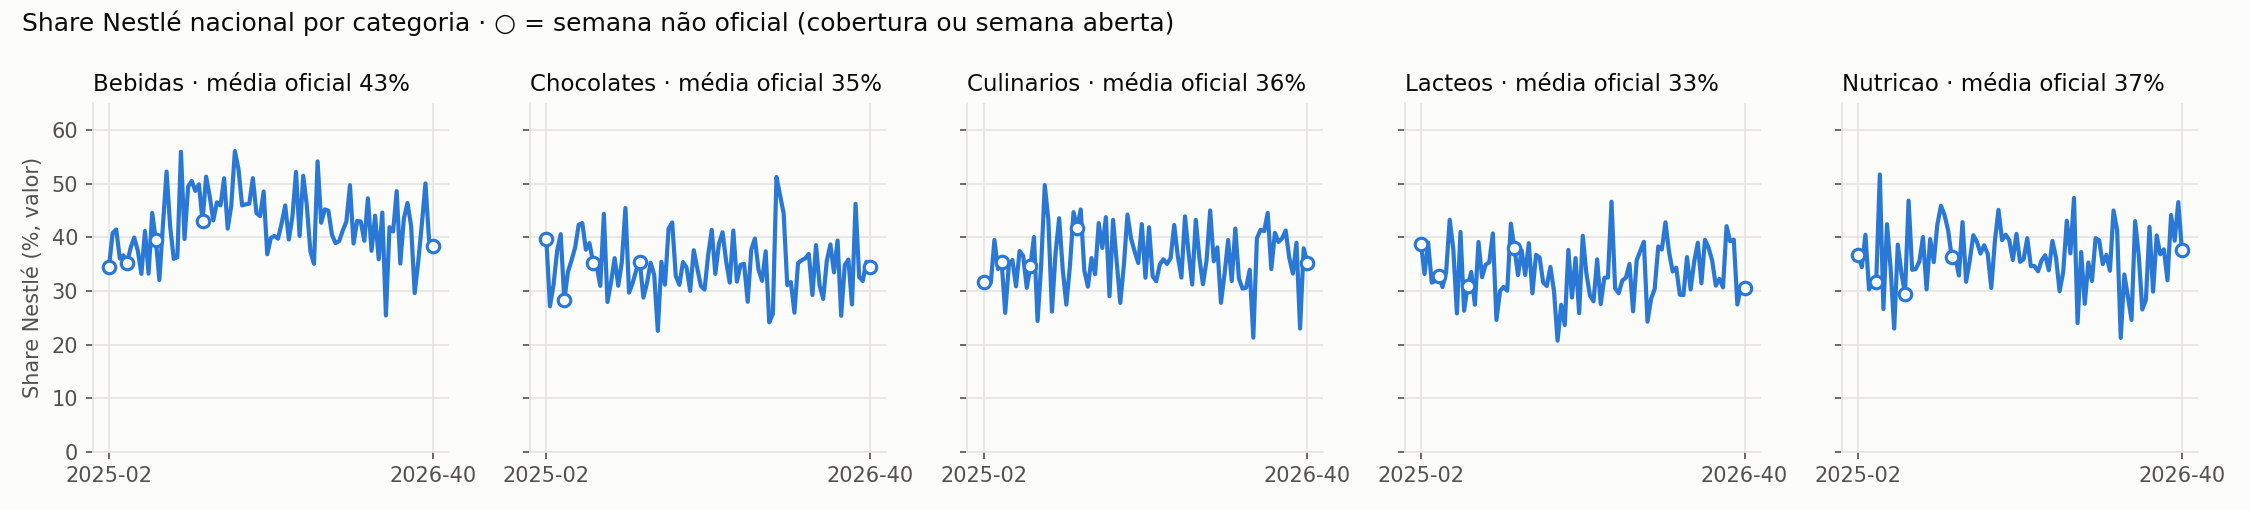
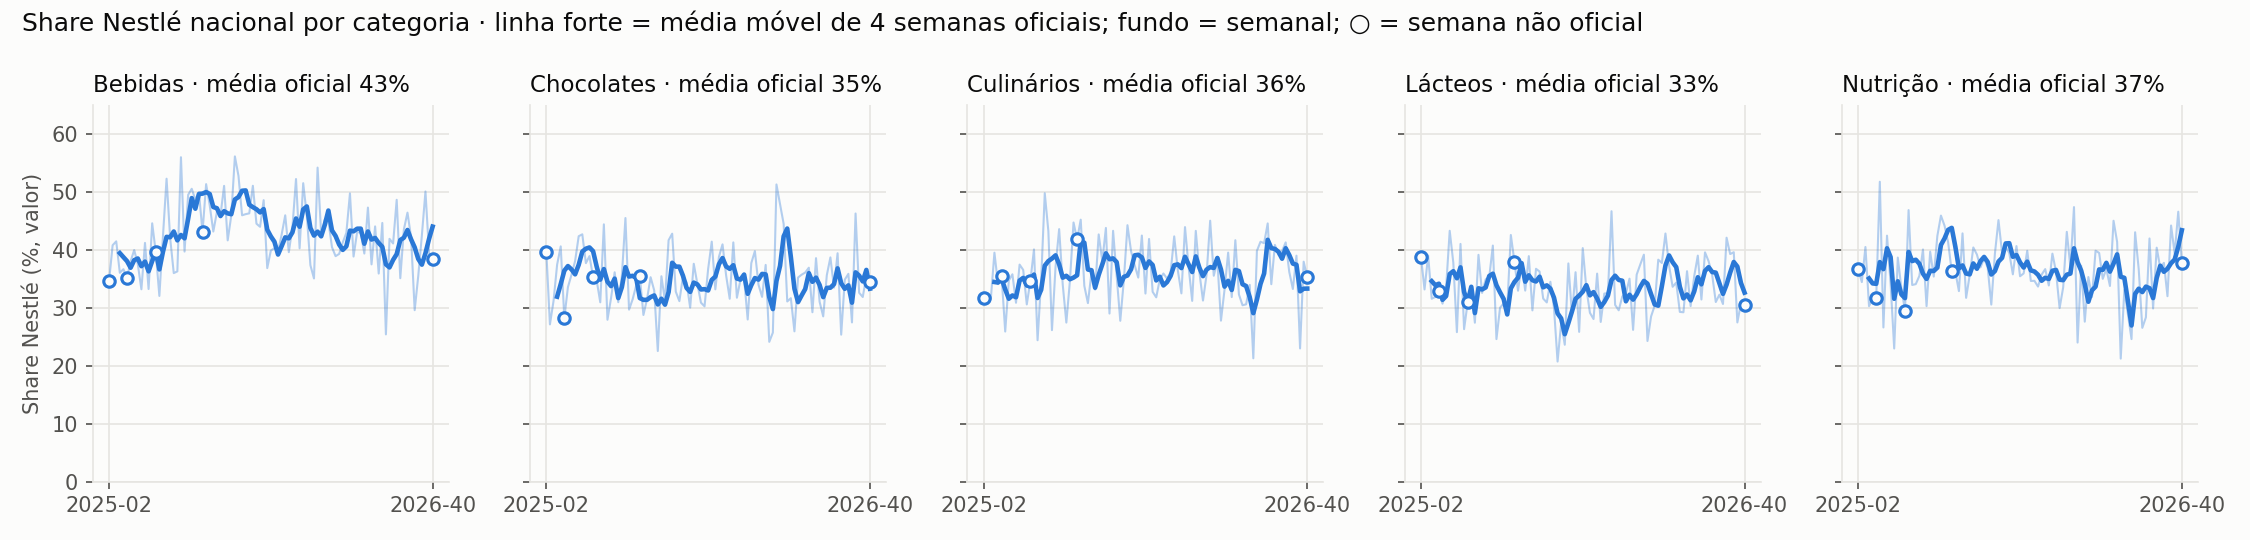
fix: grafico de share com media movel e rotulos com acento

diff --git a/src/relatorios/evidencias.py b/src/relatorios/evidencias.py
@@ -21,6 +21,11 @@ Resolver = Callable[[str], str]
 SUPERFICIE, TINTA, TINTA2, GRADE = "#fcfcfb", "#0b0b0b", "#52514e", "#e6e5e1"
 SERIES = ["#2a78d6", "#eb6834", "#1baf7a", "#eda100"]
 
+CATEGORIAS = {  # rótulo de exibição (a origem vem em maiúsculas sem acento)
+    "BEBIDAS": "Bebidas", "CHOCOLATES": "Chocolates", "CULINARIOS": "Culinários",
+    "LACTEOS": "Lácteos", "NUTRICAO": "Nutrição",
+}
+
 NOMES_REGRAS = {
     "FCT_001": "FCT_001 duplicata exata", "FCT_002": "FCT_002 versões conflitantes",
     "FCT_003": "FCT_003 mesma venda A e B", "FCT_004": "FCT_004 loja inexistente",
@@ -110,25 +115,7 @@ def gerar_graficos(spark: SparkSession, tabela: Resolver, destino: str) -> list[
     ms = spark.table(tabela("ms_gold.market_share"))
     arquivos = []
 
-    # 1. share Nestlé nacional por categoria (small multiples, um painel por categoria)
-    n = (ms.where("level = 'NACIONAL' AND is_own_product = 'Y'").groupBy("year_week", "category")
-           .agg(F.sum("ms_value").alias("s"), F.max("ms_status").alias("st")).toPandas().sort_values("year_week"))
-    cats = sorted(n.category.unique())
-    fig, axs = plt.subplots(1, len(cats), figsize=(15, 3.4), sharey=True)
-    for ax, c in zip(axs, cats):
-        d = n[n.category == c].reset_index(drop=True)
-        ax.plot(range(len(d)), d.s * 100, color=SERIES[0], lw=2)
-        nao = d[d.st != "OFICIAL"]
-        ax.scatter(nao.index, nao.s * 100, s=36, facecolor=SUPERFICIE, edgecolor=SERIES[0], lw=1.5, zorder=3)
-        oficial = d[d.st == "OFICIAL"].s.mean() * 100
-        ax.set_title(f"{c.title()} · média oficial {oficial:.0f}%", fontsize=11, color=TINTA, loc="left")
-        ax.set_ylim(0, 65)
-        ax.set_xticks([0, len(d) - 1])
-        ax.set_xticklabels([d.year_week.iloc[0], d.year_week.iloc[-1]])
-    axs[0].set_ylabel("Share Nestlé (%, valor)")
-    fig.suptitle("Share Nestlé nacional por categoria · ○ = semana não oficial (cobertura ou semana aberta)",
-                 x=0.01, ha="left", fontsize=12)
-    arquivos.append(_salvar(fig, plt, destino, "01_share_nestle_nacional.png"))
+    arquivos.append(_grafico_share_nacional(plt, ms, destino))
 
     # 2. valor retido por regra da fato
     r = (spark.table(tabela("ms_dq.quarantine")).where("alvo = 'fato_vendas'").groupBy("regra_id")
@@ -193,6 +180,39 @@ def gerar_graficos(spark: SparkSession, tabela: Resolver, destino: str) -> list[
     ax.set_title("Cobertura declarada pelos fornecedores, por semana", loc="left", fontsize=12)
     arquivos.append(_salvar(fig, plt, destino, "04_cobertura_semanal.png"))
     return arquivos
+
+
+def _grafico_share_nacional(plt, ms: DataFrame, destino: str) -> str:
+    """Share Nestlé nacional por categoria (um painel por categoria).
+
+    A série semanal oscila ~6 p.p. de uma semana para outra sem persistência (autocorrelação ≈ 0),
+    então a leitura de negócio é a média móvel de 4 semanas, calculada só com semanas oficiais.
+    A semanal fica ao fundo, com as semanas não oficiais marcadas.
+    """
+    # semana não oficial se QUALQUER marca da célula for não oficial (explícito, não depende de ordem alfabética)
+    n = (ms.where("level = 'NACIONAL' AND is_own_product = 'Y'").groupBy("year_week", "category")
+           .agg(F.sum("ms_value").alias("s"),
+                F.max(F.when(F.col("ms_status") != "OFICIAL", 1).otherwise(0)).alias("nao_oficial"))
+           .toPandas().sort_values("year_week"))
+    cats = sorted(n.category.unique())
+    fig, axs = plt.subplots(1, len(cats), figsize=(15, 3.6), sharey=True)
+    for ax, c in zip(axs, cats):
+        d = n[n.category == c].reset_index(drop=True)
+        oficial = d.s.where(d.nao_oficial == 0) * 100
+        mm4 = oficial.rolling(4, min_periods=3).mean()
+        ax.plot(d.index, d.s * 100, color=SERIES[0], lw=1, alpha=0.35)
+        ax.plot(d.index, mm4, color=SERIES[0], lw=2.2)
+        nao = d[d.nao_oficial == 1]
+        ax.scatter(nao.index, nao.s * 100, s=30, facecolor=SUPERFICIE, edgecolor=SERIES[0], lw=1.5, zorder=3)
+        ax.set_title(f"{CATEGORIAS.get(c, c.title())} · média oficial {oficial.mean():.0f}%",
+                     fontsize=11, color=TINTA, loc="left")
+        ax.set_ylim(0, 65)
+        ax.set_xticks([0, len(d) - 1])
+        ax.set_xticklabels([d.year_week.iloc[0], d.year_week.iloc[-1]])
+    axs[0].set_ylabel("Share Nestlé (%, valor)")
+    fig.suptitle("Share Nestlé nacional por categoria · linha forte = média móvel de 4 semanas oficiais; "
+                 "fundo = semanal; ○ = semana não oficial", x=0.01, ha="left", fontsize=12)
+    return _salvar(fig, plt, destino, "01_share_nestle_nacional.png")
 
 
 def _salvar(fig, plt, destino: str, nome: str) -> str:

diff --git a/docs/notas_doc_projeto.md b/docs/notas_doc_projeto.md
@@ -136,3 +136,9 @@
 - Matriz: obrigatórios 36/36; nice to have 11/13 (CI/CD e incremental documentados como próximos passos).
 - Pedido do Rildo: gerar as evidências dentro do projeto. Virou a 5ª task do job (`05_evidencias.py` + `src/relatorios/evidencias.py`): roda o pente fino como portão final (FALHA derruba o job), exporta CSVs e gráficos para o Volume `ms_dq.evidencias`; `scripts/baixar_evidencias.sh` traz para `docs/evidencias/`.
 - Gold, cobertura e fixes ainda não estavam commitados no repo (visto no `git status` de 08/10 23h19) — commits separados por assunto.
+
+## Etapa 10 — CI/CD e revisão das evidências
+- GitHub Actions (`ci_cd.yml`): pytest em todo push/PR; `bundle validate` + `deploy` na `main` só com CI verde. Runs #1/#2 falharam (requirements-dev ausente; `src/` desatualizado — o CI barrou deploy de código não testado); #3–#5 verdes. Matriz: nice to have 12/13.
+- Bug no gráfico 02 (visto pelo Rildo na evidência gerada): título saía "R$ 3.1 mi" — um `.replace(",", ".")` aplicado ao título inteiro desfazia a vírgula decimal do `_brl`. Correção: `_milhar()` formata cada número isoladamente → "R$ 3,1 mi em 2.191 linhas". Só apresentação; números inalterados.
+- FCT_005 e FCT_008 com 566 linhas cada: conjuntos distintos (retirada é sequencial — linha removida por FCT_005 não chega à FCT_008; valores R$ 620.614 × R$ 661.110). Coincidência da geração sintética.
+- Revisão do gráfico 01 (share Nestlé nacional): a série semanal oscila ~6 p.p. por semana sem persistência (autocorrelação ≈ 0 em todas as categorias) — ruído, não tendência. Passou a mostrar a média móvel de 4 semanas **oficiais** (semanal ao fundo, ○ nas não oficiais). Status da semana agora é explícito (não oficial se qualquer marca for não oficial), em vez de `max(ms_status)`, que dependia da ordem alfabética. Rótulos com acento (Culinários, Lácteos, Nutrição). Médias oficiais inalteradas (43/35/36/33/37%); média simples ≈ ponderada por valor (diferença ≤ 0,2 p.p.).
